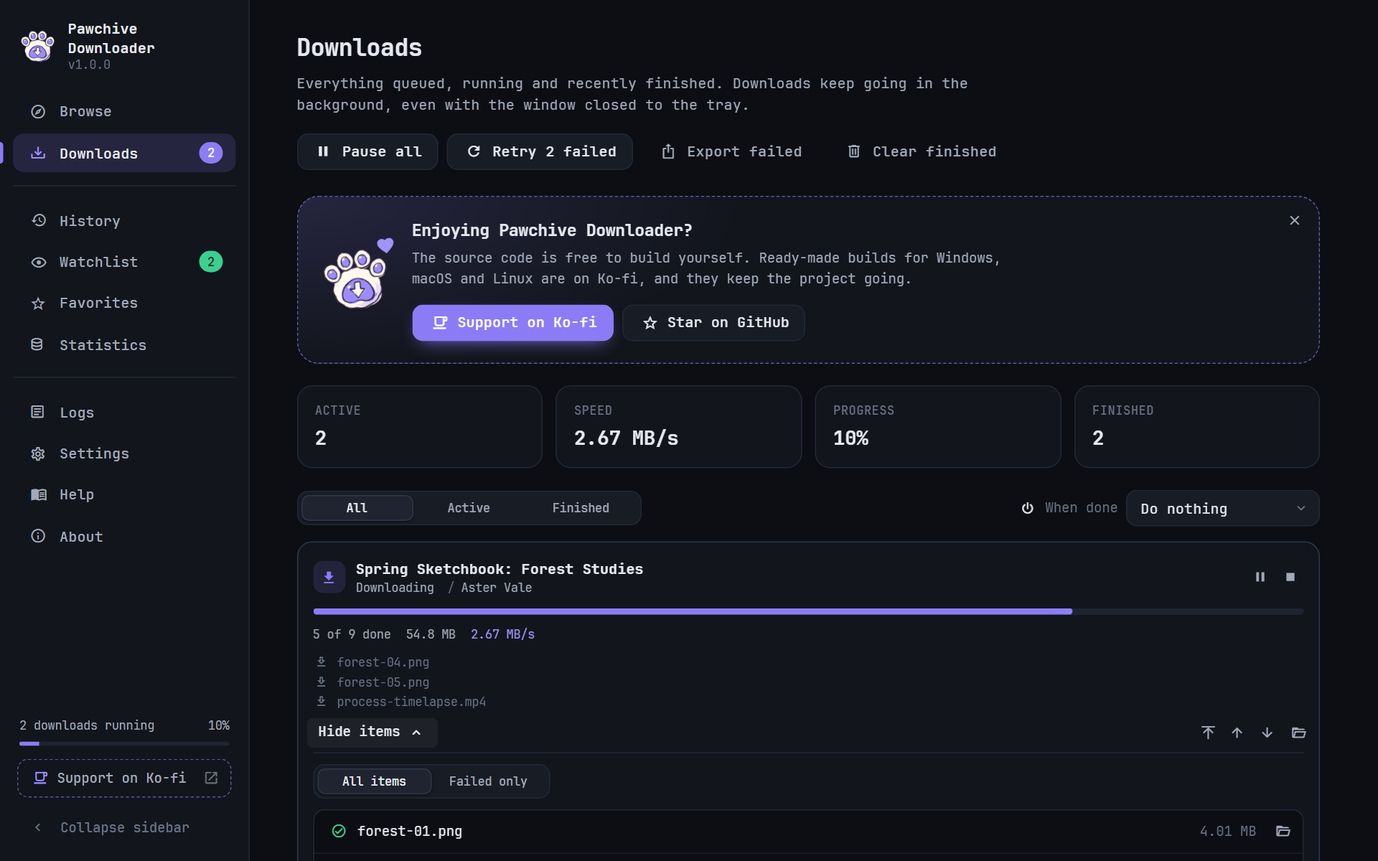
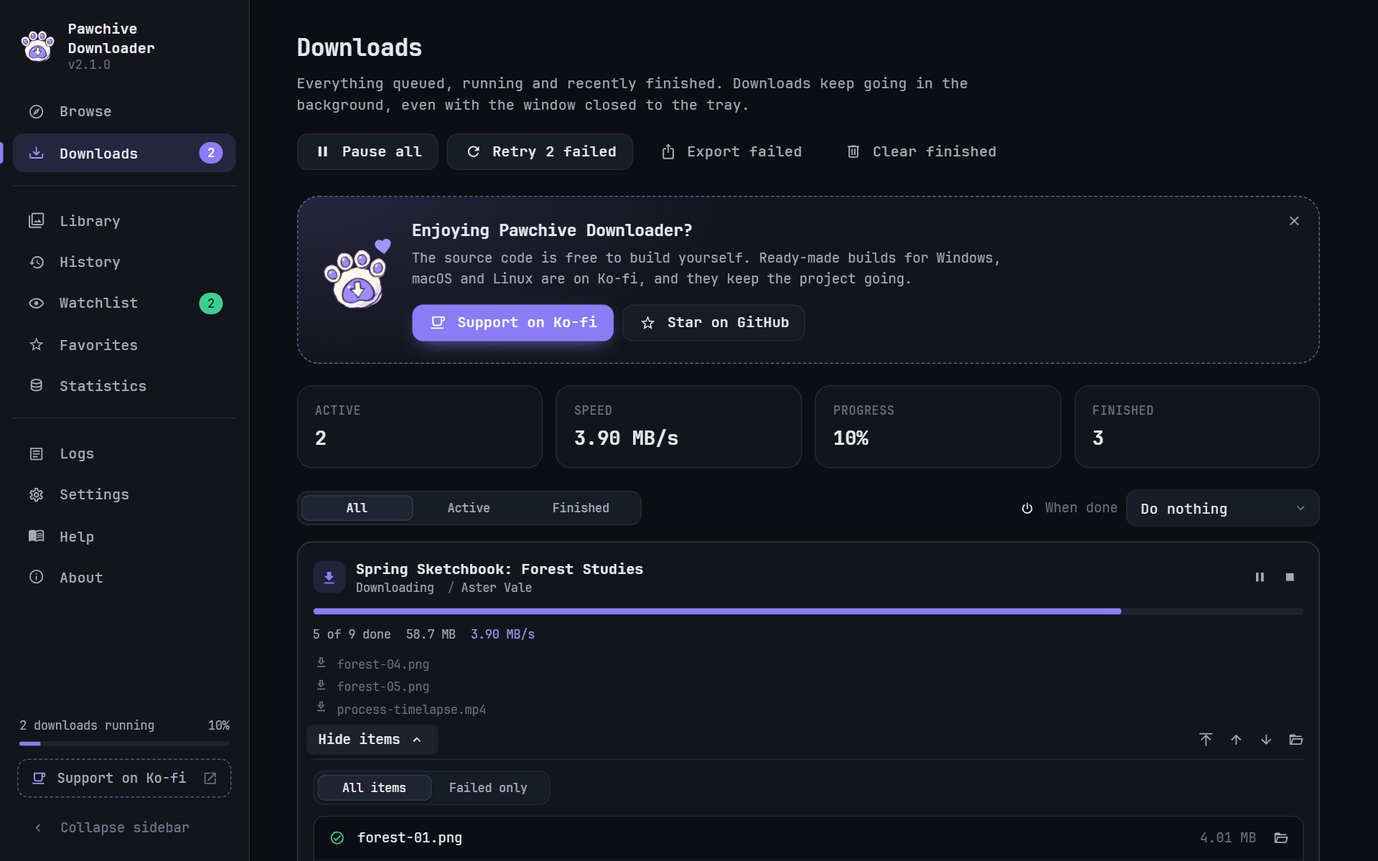
Document 2.1.0: new screenshots, README, comparison and contributing
Retake every screenshot from the demo data and add the Library, its viewer
and the browser pairing. The demo shows the app's real version. The README
covers the Library, Back and forward in Browse, re-downloads of deleted
files, the connected-browser indicator and the 2.1.0 download size; the
comparison gains the offline gallery and this app's current size and stars;
contributing explains the SVG icon outlines.

diff --git a/src/lib/mock.ts b/src/lib/mock.ts
@@ -1,4 +1,5 @@
 import type { Backend } from './api';
+import pkg from '../../package.json';
 import {
   DEFAULT_SETTINGS,
   type Creator,
@@ -31,6 +32,8 @@ import {
 type Handler = (args: Record<string, unknown>) => unknown;
 
 const ORIGIN = 'https://pawchive.pw';
+/** The demo shows the app's real version (screenshots, the About page). */
+const VERSION = pkg.version;
 const HUES = [258, 205, 152, 32, 340, 188, 280, 12];
 
 function art(seed: number, label = ''): string {
@@ -508,7 +511,7 @@ export function createMockBackend(): Backend {
       id: 1,
       at: Date.now() - 120_000,
       level: 'info',
-      message: 'Pawchive Downloader 1.0.0 started',
+      message: `Pawchive Downloader ${VERSION} started`,
       detail: null,
     },
     {
@@ -562,12 +565,12 @@ export function createMockBackend(): Backend {
 
   const handlers: Record<string, Handler> = {
     app_info: () => ({
-      version: '1.0.0',
+      version: VERSION,
       platform: 'windows',
       arch: 'x86_64',
       dataDir: 'C:\\Users\\you\\AppData\\Roaming\\io.github.voxdroid.pawchivedownloader',
       logFile: null,
-      userAgent: 'PawchiveDownloader/1.0.0 (+mailto:izeno.contact@gmail.com)',
+      userAgent: `PawchiveDownloader/${VERSION} (+mailto:izeno.contact@gmail.com)`,
       args: [],
       channel: 'official',
       lastCrash: null,
@@ -943,8 +946,8 @@ export function createMockBackend(): Backend {
     write_text_file: () => undefined,
     ack_crash: () => undefined,
     check_updates: () => ({
-      current: '1.0.0',
-      latest: '1.0.0',
+      current: VERSION,
+      latest: VERSION,
       available: false,
       url: 'https://ko-fi.com/izeno',
       sourceUrl: 'https://github.com/VoxDroid/PawchiveDownloader',

diff --git a/README.md b/README.md
@@ -41,15 +41,16 @@ It is the successor of [KemonoDownloader](#coming-from-kemonodownloader), and it
 
 ## At a glance
 
-|                         |                                                                                              |
-| ----------------------- | -------------------------------------------------------------------------------------------- |
-| **3 sites**             | Pawchive, Kemono and Coomer, with old kemono.su and coomer.su links still opening            |
-| **7 outside hosts**     | Mega (decrypted locally), Google Drive, Dropbox, Pixeldrain, GoFile, MediaFire, direct links |
-| **6.4 MB**              | the Windows download; native installers for Windows, macOS (universal) and Linux             |
-| **Every file verified** | SHA-256 checked against the site's own hash, resumed after any interruption                  |
-| **Never stuck**         | dead media servers detected in seconds, thumbnails as a fallback, failed files retried later |
-| **9 languages**         | English, Japanese, Korean, Chinese, Spanish, Portuguese, Russian, German, French             |
-| **About 180 tests**     | Rust engine, interface and end-to-end, run on Windows, macOS and Linux for every change      |
+|                         |                                                                                                            |
+| ----------------------- | ---------------------------------------------------------------------------------------------------------- |
+| **3 sites**             | Pawchive, Kemono and Coomer, with old kemono.su and coomer.su links still opening                          |
+| **7 outside hosts**     | Mega (decrypted locally), Google Drive, Dropbox, Pixeldrain, GoFile, MediaFire, direct links               |
+| **5.5 MB**              | the Windows installer download (7 MB portable); native installers for Windows, macOS (universal) and Linux |
+| **Every file verified** | SHA-256 checked against the site's own hash, resumed after any interruption                                |
+| **Never stuck**         | dead media servers detected in seconds, thumbnails as a fallback, failed files retried later               |
+| **An offline Library**  | everything in your download folders by creator and post, with zoom, full screen and videos                 |
+| **9 languages**         | English, Japanese, Korean, Chinese, Spanish, Portuguese, Russian, German, French                           |
+| **About 185 tests**     | Rust engine, interface and end-to-end, run on Windows, macOS and Linux for every change                    |
 
 How it compares with every other Pawchive, Kemono and Coomer downloader: [docs/COMPARISON.md](docs/COMPARISON.md).
 
@@ -77,7 +78,7 @@ Pawchive Downloader is the successor of [KemonoDownloader](https://github.com/Vo
 
 [Pawchive Downloader for the browser](https://github.com/VoxDroid/PawchiveDownloader-BrowserExtension) is this app's companion for Chrome, Edge and Firefox. It adds a download panel to every post and creator page on Pawchive, Kemono and Coomer, and works on its own too.
 
-Pair the two once: in the app, open **Settings > Browser extension**, turn it on and press **Pair**; enter the six-digit code in the extension's **Settings > Desktop app** and switch on **Send downloads to the app**. From then on, the panel's downloads and watched creators go to the app, which keeps going after the browser closes and also fetches the Mega, Google Drive and Dropbox links. The connection stays on this computer (`127.0.0.1`); see [docs/BRIDGE.md](docs/BRIDGE.md).
+Pair the two once: in the app, open **Settings > Browser extension**, turn it on and press **Pair a browser**; enter the six-digit code in the extension's **Settings > Desktop app** and switch on **Send downloads to the app**. The app notices the new browser by itself and from then on shows which browsers are paired and connected. From then on, the panel's downloads and watched creators go to the app, which keeps going after the browser closes and also fetches the Mega, Google Drive and Dropbox links. The connection stays on this computer (`127.0.0.1`); see [docs/BRIDGE.md](docs/BRIDGE.md).
 
 <p align="center">
   <a href="https://ko-fi.com/izeno/shop/pawchivedownloader"><img src="assets/extension-download-button.svg" alt="Get the Pawchive Downloader browser extension for Chrome, Edge and Firefox" width="314" /></a>
@@ -106,57 +107,57 @@ Pair the two once: in the app, open **Settings > Browser extension**, turn it on
 
 **Finding things**
 
-| Feature        | What it does                                                                                                                                                                          |
-| -------------- | ------------------------------------------------------------------------------------------------------------------------------------------------------------------------------------- |
-| Three sites    | Links from pawchive.pw, kemono.cr and coomer.st (and their old domains) all work the same way: posts, creators, searches and recent posts.                                            |
-| Creator search | Type a name instead of a link to search every creator on a site (about 100,000 on Pawchive alone), by service, popularity, update date or name. Lists are fetched at most once a day. |
-| Browse         | Posts show every file with a thumbnail; creators show their posts with banner, avatar and their other accounts; recent posts can be searched per site.                                |
-| Image viewer   | Look at a post's images full size with the arrow keys and pick them while you look; zoom (wheel, + and -, actual size), full screen, and play its videos from the site.               |
-| Read markers   | Posts you opened before are marked, so you can see where you left off.                                                                                                                |
-| Clipboard      | Optionally, links you copy anywhere are noticed and offered for opening.                                                                                                              |
-| Browser bridge | The [browser extension](#the-browser-extension) hands downloads to the app with one click, after pairing with a six-digit code.                                                       |
+| Feature        | What it does                                                                                                                                                                                                                                                                                            |
+| -------------- | ------------------------------------------------------------------------------------------------------------------------------------------------------------------------------------------------------------------------------------------------------------------------------------------------------- |
+| Three sites    | Links from pawchive.pw, kemono.cr and coomer.st (and their old domains) all work the same way: posts, creators, searches and recent posts.                                                                                                                                                              |
+| Creator search | Type a name instead of a link to search every creator on a site (about 100,000 on Pawchive alone), by service, popularity, update date or name. Lists are fetched at most once a day.                                                                                                                   |
+| Browse         | Posts show every file with a thumbnail; creators show their posts with banner, avatar and their other accounts; recent posts can be searched per site. Back and forward (Alt+Left, Alt+Right, mouse buttons) return to what you opened as it was, and Browse keeps its place while you use other pages. |
+| Image viewer   | Look at a post's images full size with the arrow keys and pick them while you look; zoom (wheel, + and -, actual size), full screen, and play its videos from the site.                                                                                                                                 |
+| Read markers   | Posts you opened before are marked, so you can see where you left off.                                                                                                                                                                                                                                  |
+| Clipboard      | Optionally, links you copy anywhere are noticed and offered for opening.                                                                                                                                                                                                                                |
+| Browser bridge | The [browser extension](#the-browser-extension) hands downloads to the app with one click, after pairing with a six-digit code; Settings shows which browsers are paired and connected.                                                                                                                 |
 
 **Downloading**
 
-| Feature                    | What it does                                                                                                                                                                                                                     |
-| -------------------------- | -------------------------------------------------------------------------------------------------------------------------------------------------------------------------------------------------------------------------------- |
-| File picking               | Select files or posts by click and Shift-click, filter by type (images, videos, audio, archives, documents, text), invert, hide what you already have.                                                                           |
-| Whole creators             | Download everything, a date range, a site search, or just the posts you tick. Large creators are scanned page by page while downloads already run.                                                                               |
-| Filters                    | Only posts with certain words, skip posts or files with others (plain or `/regex/`), the newest N posts, file types to keep or skip. Defaults in Settings, changeable for each download.                                         |
-| Outside hosts              | Files a post shares on Mega (files and folders, decrypted on your computer), Google Drive (files and folders), Dropbox, Pixeldrain, GoFile and MediaFire are downloaded with the post.                                           |
-| Unpacking                  | Downloaded ZIP archives can be unpacked next to themselves, trying the passwords the post mentions; nothing can be written outside the folder.                                                                                   |
-| Batch queue and URL import | Paste any number of links, import a `.txt` file or drag links onto the window. Each creator becomes one download; posts of the same creator are grouped.                                                                         |
-| Three formats              | Separate files in a folder per post, one ZIP archive per post (ZIP64, no size limit, optional parts), or thumbnails only.                                                                                                        |
-| Resumable downloads        | Files are written as `.part` files and continue with HTTP Range requests after a pause, a dropped connection or a restart of the app.                                                                                            |
-| Checksums                  | Every finished file is checked against the SHA-256 in its address and downloaded again if it does not match.                                                                                                                     |
-| Preview-only files         | When Pawchive only keeps a preview, the full file is fetched through the temporary link the post page offers.                                                                                                                    |
-| Dead media servers         | Before a Kemono or Coomer download, the app checks the site's media server; when it is down you choose: cancel, thumbnails instead, or queue the full files for later. During downloads a dead server is noticed within seconds. |
-| Duplicate skipping         | Files are recognised by content hash, across posts, creators and sites, and skipped when you already have them.                                                                                                                  |
-| Post text and metadata     | Save the description as `content.txt` and/or `content.html`, a `post.json`, `links.txt` with outside links and passwords, comments with their replies, and a creator's announcements.                                            |
-| Clean names                | Remove words such as `[HD]` from titles and file names.                                                                                                                                                                          |
-| Fast mode                  | One switch: every file type, your saved options, no per-download choices.                                                                                                                                                        |
+| Feature                    | What it does                                                                                                                                                                                                                                                                                                    |
+| -------------------------- | --------------------------------------------------------------------------------------------------------------------------------------------------------------------------------------------------------------------------------------------------------------------------------------------------------------- |
+| File picking               | Select files or posts by click and Shift-click, filter by type (images, videos, audio, archives, documents, text), invert, hide what you already have.                                                                                                                                                          |
+| Whole creators             | Download everything, a date range, a site search, or just the posts you tick. Large creators are scanned page by page while downloads already run.                                                                                                                                                              |
+| Filters                    | Only posts with certain words, skip posts or files with others (plain or `/regex/`), the newest N posts, file types to keep or skip. Defaults in Settings, changeable for each download.                                                                                                                        |
+| Outside hosts              | Files a post shares on Mega (files and folders, decrypted on your computer), Google Drive (files and folders), Dropbox, Pixeldrain, GoFile and MediaFire are downloaded with the post.                                                                                                                          |
+| Unpacking                  | Downloaded ZIP archives can be unpacked next to themselves, trying the passwords the post mentions; nothing can be written outside the folder.                                                                                                                                                                  |
+| Batch queue and URL import | Paste any number of links, import a `.txt` file or drag links onto the window. Each creator becomes one download; posts of the same creator are grouped.                                                                                                                                                        |
+| Three formats              | Separate files in a folder per post, one ZIP archive per post (ZIP64, no size limit, optional parts), or thumbnails only.                                                                                                                                                                                       |
+| Resumable downloads        | Files are written as `.part` files and continue with HTTP Range requests after a pause, a dropped connection or a restart of the app.                                                                                                                                                                           |
+| Checksums                  | Every finished file is checked against the SHA-256 in its address and downloaded again if it does not match.                                                                                                                                                                                                    |
+| Preview-only files         | When Pawchive only keeps a preview, the full file is fetched through the temporary link the post page offers.                                                                                                                                                                                                   |
+| Dead media servers         | Before a Kemono or Coomer download, the app checks the site's media server; when it is down you choose: cancel, thumbnails instead, or queue the full files for later. During downloads a dead server is noticed within seconds.                                                                                |
+| Duplicate skipping         | Files are recognised by content hash, across posts, creators and sites, and skipped while you still have them: files you deleted or moved are fetched again, and a file already in the folder is skipped rather than copied as `name (1)`. A download with nothing new says so and offers to download it again. |
+| Post text and metadata     | Save the description as `content.txt` and/or `content.html`, a `post.json`, `links.txt` with outside links and passwords, comments with their replies, and a creator's announcements.                                                                                                                           |
+| Clean names                | Remove words such as `[HD]` from titles and file names.                                                                                                                                                                                                                                                         |
+| Fast mode                  | One switch: every file type, your saved options, no per-download choices.                                                                                                                                                                                                                                       |
 
 **Managing**
 
-| Feature             | What it does                                                                                                                                                            |
-| ------------------- | ----------------------------------------------------------------------------------------------------------------------------------------------------------------------- |
-| Download queue      | Pause, resume, cancel, retry and reorder downloads; follow speed, progress and every item, retry single files, open folders.                                            |
-| Automatic retries   | Failed files go back in the queue by themselves after a chosen time, up to three times. Retry everything at once or export the failed list.                             |
-| Download window     | Start downloads only at chosen times (for example at night); the computer is kept awake while they run.                                                                 |
-| Disk space guard    | New downloads wait instead of failing when the drive is nearly full, and go on by themselves.                                                                           |
-| When done           | Quit, sleep or shut down after the queue finishes, with a cancellable countdown.                                                                                        |
-| Crash-safe          | The queue is saved continuously to a local SQLite library and picks up where it stopped.                                                                                |
-| Library             | An offline gallery of everything downloaded, by creator and post: search, images or videos, slideshow, zoom, full screen, video playback with seeking. Nothing online.  |
-| History             | Every finished download with its files, size, duration and errors. Show it in the folder, download it again, export CSV or JSON.                                        |
-| Watchlist           | Follow creators on any site. They are checked on a schedule; new posts raise a badge and a notification and can be downloaded automatically, each with its own options. |
-| Favorites           | Bookmark posts and creators with notes, download them again in one click, import and export the list.                                                                   |
-| Statistics          | Lifetime totals, the last twelve months, most downloaded creators, files by kind, and a check that finds deleted or moved files and downloads just those again.         |
-| Portable mode       | With a `data` folder next to the program, everything stays there, so the app runs from a USB stick.                                                                     |
-| Backup              | Settings, watchlist, favorites and history in one file, restored on another computer.                                                                                   |
-| Tray and background | Closing the window keeps the app in the tray; progress shows on the tray tooltip and the taskbar button. Optional start at sign-in.                                     |
-| Notifications       | Finished downloads, problems and new posts, in your language, optionally without titles or names.                                                                       |
-| Logs and help       | A live, searchable activity log, also written to a rotating file, and a searchable guide inside the app.                                                                |
-| Update check        | Looks for a newer version and points to Ko-fi (or the source). It never installs anything by itself.                                                                    |
+| Feature             | What it does                                                                                                                                                                                                                                                                            |
+| ------------------- | --------------------------------------------------------------------------------------------------------------------------------------------------------------------------------------------------------------------------------------------------------------------------------------- |
+| Download queue      | Pause, resume, cancel, retry and reorder downloads; follow speed, progress and every item, retry single files, open folders.                                                                                                                                                            |
+| Automatic retries   | Failed files go back in the queue by themselves after a chosen time, up to three times. Retry everything at once or export the failed list.                                                                                                                                             |
+| Download window     | Start downloads only at chosen times (for example at night); the computer is kept awake while they run.                                                                                                                                                                                 |
+| Disk space guard    | New downloads wait instead of failing when the drive is nearly full, and go on by themselves.                                                                                                                                                                                           |
+| When done           | Quit, sleep or shut down after the queue finishes, with a cancellable countdown.                                                                                                                                                                                                        |
+| Crash-safe          | The queue is saved continuously to a local SQLite library and picks up where it stopped.                                                                                                                                                                                                |
+| Library             | An offline gallery of everything in your download folders, by creator and post, including files saved by another install, the browser extension or before the history was cleared: search, images or videos, slideshow, zoom, full screen, video playback with seeking. Nothing online. |
+| History             | Every finished download with its files, size, duration and errors. Show it in the folder, download it again, export CSV or JSON.                                                                                                                                                        |
+| Watchlist           | Follow creators on any site. They are checked on a schedule; new posts raise a badge and a notification and can be downloaded automatically, each with its own options.                                                                                                                 |
+| Favorites           | Bookmark posts and creators with notes, download them again in one click, import and export the list.                                                                                                                                                                                   |
+| Statistics          | Lifetime totals, the last twelve months, most downloaded creators, files by kind, and a check that finds deleted or moved files and downloads just those again.                                                                                                                         |
+| Portable mode       | With a `data` folder next to the program, everything stays there, so the app runs from a USB stick.                                                                                                                                                                                     |
+| Backup              | Settings, watchlist, favorites and history in one file, restored on another computer.                                                                                                                                                                                                   |
+| Tray and background | Closing the window keeps the app in the tray; progress shows on the tray tooltip and the taskbar button. Optional start at sign-in.                                                                                                                                                     |
+| Notifications       | Finished downloads, problems and new posts, in your language, optionally without titles or names.                                                                                                                                                                                       |
+| Logs and help       | A live, searchable activity log, also written to a rotating file, and a searchable guide inside the app.                                                                                                                                                                                |
+| Update check        | Looks for a newer version and points to Ko-fi (or the source). It never installs anything by itself.                                                                                                                                                                                    |
 
 **Interface**
 
@@ -173,14 +174,16 @@ Pair the two once: in the app, open **Settings > Browser extension**, turn it on
 
 ## Screenshots
 
-|                                                        |                                                               |
-| ------------------------------------------------------ | ------------------------------------------------------------- |
-| ![Start page](docs/screenshots/browse.png)             | ![A post with its files](docs/screenshots/post.png)           |
-| ![Outside links of a post](docs/screenshots/links.png) | ![Creator search](docs/screenshots/search.png)                |
-| ![Downloads](docs/screenshots/downloads.png)           | ![Compact sidebar](docs/screenshots/compact.png)              |
-| ![Watchlist](docs/screenshots/watchlist.png)           | ![Statistics](docs/screenshots/statistics.png)                |
-| ![Favorites](docs/screenshots/favorites.png)           | ![History](docs/screenshots/history.png)                      |
-| ![Settings](docs/screenshots/settings.png)             | ![Batch queue, light theme](docs/screenshots/batch-light.png) |
+|                                                               |                                                                        |
+| ------------------------------------------------------------- | ---------------------------------------------------------------------- |
+| ![Start page](docs/screenshots/browse.png)                    | ![A post with its files](docs/screenshots/post.png)                    |
+| ![The Library](docs/screenshots/library.png)                  | ![The Library's viewer with zoom](docs/screenshots/library-viewer.png) |
+| ![Outside links of a post](docs/screenshots/links.png)        | ![Creator search](docs/screenshots/search.png)                         |
+| ![Downloads](docs/screenshots/downloads.png)                  | ![Compact sidebar](docs/screenshots/compact.png)                       |
+| ![Watchlist](docs/screenshots/watchlist.png)                  | ![Statistics](docs/screenshots/statistics.png)                         |
+| ![Favorites](docs/screenshots/favorites.png)                  | ![History](docs/screenshots/history.png)                               |
+| ![Settings](docs/screenshots/settings.png)                    | ![Pairing with the browser extension](docs/screenshots/pairing.png)    |
+| ![Batch queue, light theme](docs/screenshots/batch-light.png) |                                                                        |
 
 The screenshots use the app's demo data.
 
@@ -275,6 +278,7 @@ src-tauri/            Rust: the app and its download engine
   src/jobs/           job model, filters, planning, engine, transfers, ZIP, unpacking
   src/store/          SQLite library: queue, history, hashes, watchlist, favorites, read marks
   src/library.rs      statistics and the missing-file check
+  src/gallery.rs      the Library: folder scan, thumbnails, the pdl-media protocol
   src/bridge.rs       the browser extension's local server
   src/power.rs        keep-awake, free space, sleep and shut down
   src/watch.rs        scheduled watchlist checks
@@ -282,11 +286,11 @@ src-tauri/            Rust: the app and its download engine
   src/commands.rs     what the interface can call
   tests/              integration tests against a mock site, and live checks
 src/                  Svelte 5 interface
-  features/           Browse, Downloads, History, Watchlist, Favorites, Statistics, Logs, Settings, Help, About
+  features/           Browse, Downloads, Library, History, Watchlist, Favorites, Statistics, Logs, Settings, Help, About
   ui/                 components, layout, theme, state
   lib/                bridge to Rust, demo backend, translations, helpers
 tests/                Vitest unit and component tests, Playwright UI tests
-scripts/              font subsetting, icon rendering, translations, screenshots
+scripts/              font subsetting, icon outlines, icon rendering, translations, screenshots
 docs/                 architecture, extension bridge, translating, screenshots
 ```
 

diff --git a/docs/COMPARISON.md b/docs/COMPARISON.md
@@ -30,19 +30,19 @@ documentation does not mention it (it may still exist).
 ## At a glance
 
 Sizes are the Windows download of each project's latest release on
-GitHub, checked on 2026-11-19; stars show how many people follow each
-project there.
+GitHub, checked on 2026-11-19 (this app's on 2026-11-24, for 2.1.0); stars
+show how many people follow each project there.
 
 |                  | This app                                      | whyamihere773                       | KToolBox              | Yuvi9587                                  | gallery-dl            | kumono                |
 | ---------------- | --------------------------------------------- | ----------------------------------- | --------------------- | ----------------------------------------- | --------------------- | --------------------- |
 | Kind             | Desktop app                                   | Desktop app                         | CLI and web UI        | Desktop app                               | CLI                   | CLI                   |
-| Windows download | **6.4 MB** zip (16 MB exe)                    | 332 MB zip                          | 43 MB zip             | 15 MB exe + 120 MB `_internal`            | pip or standalone exe | 8 MB exe              |
+| Windows download | **5.5 MB** zip (18 MB exe)                    | 332 MB zip                          | 43 MB zip             | 15 MB exe + 120 MB `_internal`            | pip or standalone exe | 8 MB exe              |
 | Installers       | Setup, MSI, portable, DMG, AppImage, deb, rpm | Zip, tar.gz                         | Zip per system        | Exe and folder                            | pip, exe              | Single binary         |
 | Systems          | Windows, macOS (universal), Linux             | Windows, Linux                      | Windows, macOS, Linux | Windows                                   | Any with Python       | Windows, macOS, Linux |
 | Built with       | Rust and Svelte (Tauri)                       | Python and QML                      | Python and TypeScript | Python (PyQt5)                            | Python                | Rust                  |
 | Sites            | Pawchive, Kemono, Coomer                      | Pawchive, Kemono, Coomer and others | Pawchive              | Kemono, Coomer, Bunkr, Discord and others | Hundreds              | Kemono, Coomer        |
 | Latest release   | 2.1.0, 2026-11-24                             | 1.4.1, 2026-11-17                   | 1.0.0, 2026-08-23     | 2.0.0, 2026-11-12                         | 1.32.20, 2026-11-14   | 0.77.1, 2026-09-12    |
-| GitHub stars     | private                                       | 91                                  | 597                   | 675                                       | 20,562                | 71                    |
+| GitHub stars     | 7 (public since 2.0.0)                        | 91                                  | 597                   | 675                                       | 20,562                | 71                    |
 | License          | MIT (builds on Ko-fi)                         | not stated                          | BSD-3-Clause          | MIT                                       | GPL-2.0               | MIT-0                 |
 | Automated tests  | About 160 (Rust, unit, UI) on 3 systems       | -                                   | Yes                   | -                                         | Yes                   | -                     |
 
@@ -100,19 +100,20 @@ project there.
 
 ## Keeping up and looking back
 
-| Feature                                          | This app | whyamihere773 | KToolBox   | Yuvi9587          | gallery-dl        | kumono |
-| ------------------------------------------------ | -------- | ------------- | ---------- | ----------------- | ----------------- | ------ |
-| Watchlist with new-post badges and notifications | Yes      | Yes           | Sync plans | -                 | -                 | -      |
-| Download new posts automatically                 | Yes      | Yes           | Yes        | -                 | -                 | -      |
-| Per-creator folder, mode and filters             | Yes      | Yes           | Per plan   | -                 | -                 | -      |
-| Favorites with notes                             | Yes      | Partly        | Yes        | Account favorites | Account favorites | -      |
-| History with download again and CSV              | Yes      | Yes           | Yes        | Yes               | -                 | -      |
-| Statistics                                       | Yes      | Yes           | Overview   | -                 | -                 | -      |
-| Find deleted or moved files and get them back    | Yes      | Yes           | -          | -                 | -                 | -      |
-| Crash-safe queue                                 | Yes      | Yes           | Yes        | Partly            | -                 | -      |
-| Read markers on posts                            | **Yes**  | -             | -          | -                 | -                 | -      |
-| Portable mode, full backup and restore           | **Yes**  | -             | -          | -                 | -                 | -      |
-| Browser extension hands downloads to the app     | **Yes**  | -             | -          | -                 | -                 | -      |
+| Feature                                          | This app           | whyamihere773 | KToolBox   | Yuvi9587          | gallery-dl        | kumono |
+| ------------------------------------------------ | ------------------ | ------------- | ---------- | ----------------- | ----------------- | ------ |
+| Watchlist with new-post badges and notifications | Yes                | Yes           | Sync plans | -                 | -                 | -      |
+| Download new posts automatically                 | Yes                | Yes           | Yes        | -                 | -                 | -      |
+| Per-creator folder, mode and filters             | Yes                | Yes           | Per plan   | -                 | -                 | -      |
+| Favorites with notes                             | Yes                | Partly        | Yes        | Account favorites | Account favorites | -      |
+| History with download again and CSV              | Yes                | Yes           | Yes        | Yes               | -                 | -      |
+| Statistics                                       | Yes                | Yes           | Overview   | -                 | -                 | -      |
+| Offline gallery of everything downloaded         | **Yes**            | -             | -          | -                 | -                 | -      |
+| Find deleted or moved files and get them back    | Yes, by themselves | Yes           | -          | -                 | -                 | -      |
+| Crash-safe queue                                 | Yes                | Yes           | Yes        | Partly            | -                 | -      |
+| Read markers on posts                            | **Yes**            | -             | -          | -                 | -                 | -      |
+| Portable mode, full backup and restore           | **Yes**            | -             | -          | -                 | -                 | -      |
+| Browser extension hands downloads to the app     | **Yes**            | -             | -          | -                 | -                 | -      |
 
 ## The app itself
 

diff --git a/CONTRIBUTING.md b/CONTRIBUTING.md
@@ -48,9 +48,11 @@ CI runs all of them on Windows, macOS and Linux.
   [docs/TRANSLATING.md](docs/TRANSLATING.md)). If you cannot translate a new
   string, add the English text to every source file and say so in the pull
   request.
-- Icons come from the bundled JetBrains Mono Nerd Font. To add one, add its
-  Nerd Font glyph name to `src/ui/icon-names.json` and run
-  `python scripts/subset-font.py <folder with the Nerd Font TTFs>`.
+- Icons come from the JetBrains Mono Nerd Font and are drawn as SVG outlines,
+  each centered on its shape. To add one, add its Nerd Font glyph name to
+  `src/ui/icon-names.json` and run
+  `python scripts/subset-font.py <folder with the Nerd Font TTFs>`, then
+  `python scripts/icon-paths.py <that folder>/JetBrainsMonoNerdFont-Regular.ttf`.
 - Commit messages are plain and descriptive: what changed and why, in the
   imperative ("Add a speed limit", not "added speed limit").
 
